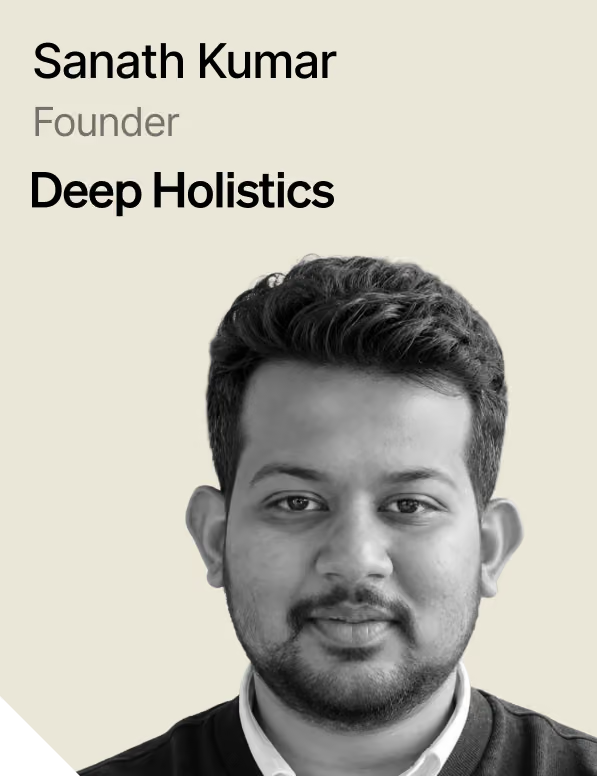
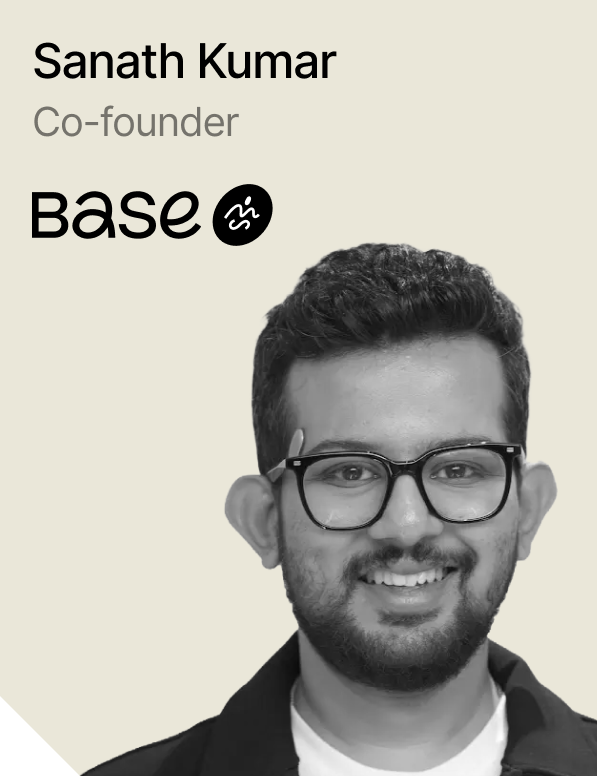
Speakers: Sanath Kumar's updated card (Co-founder, Base) to match theproductfolks.com

diff --git a/src/app/landing/content.ts b/src/app/landing/content.ts
@@ -90,7 +90,7 @@ export const content = {
     list: [
       { kind: "image", name: "Syed Adil", role: "Head of India - Growth", company: "Replit", session: "Panel · Your Next 100M Users", photo: "/brand/speakers/syed-adil.png" },
       { kind: "image", name: "Mahesh Narayanan", role: "Managing Director", company: "GPT1 Ventures", session: "Panel · Your Next 100M Users", photo: "/brand/speakers/mahesh-narayanan.png" },
-      { kind: "image", name: "Sanath Kumar", role: "Founder", company: "Deep Holistics", session: "Lightning talk · Longevity", photo: "/brand/speakers/sanath-kumar.png" },
+      { kind: "image", name: "Sanath Kumar", role: "Co-founder", company: "Base", session: "Lightning talk · Longevity", photo: "/brand/speakers/sanath-kumar.png" },
       { kind: "image", name: "Nishant Chandra", role: "Co-founder", company: "Newton School", session: "Lightning talk · AI Does the Work. You Make the Bet.", photo: "/brand/speakers/nishant-chandra.png" },
       { kind: "image", name: "Mani", role: "Head of Product", company: "Sarvam", session: "Workshop · How I AI: Builder’s Guide", photo: "/brand/speakers/mani.png" },
     ] as { kind: "image" | "named" | "soon"; name: string; role: string; company: string; session: string; photo?: string }[],
